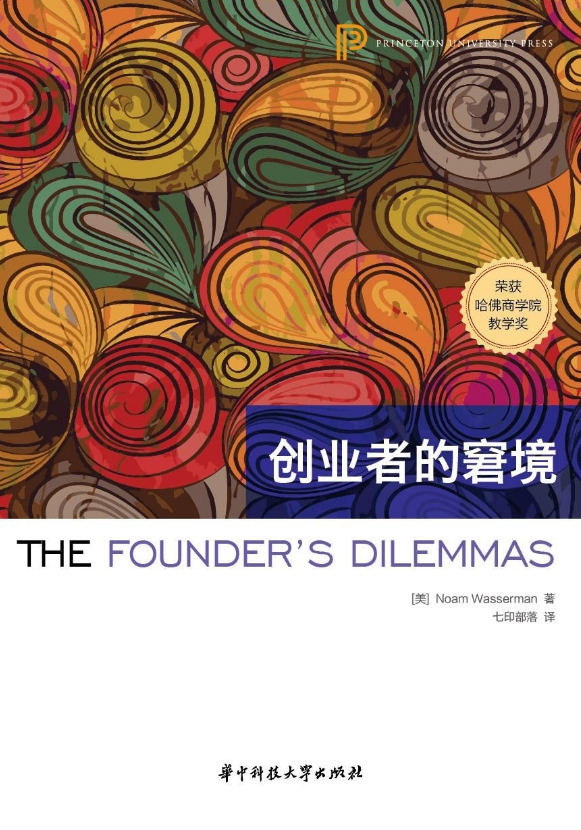
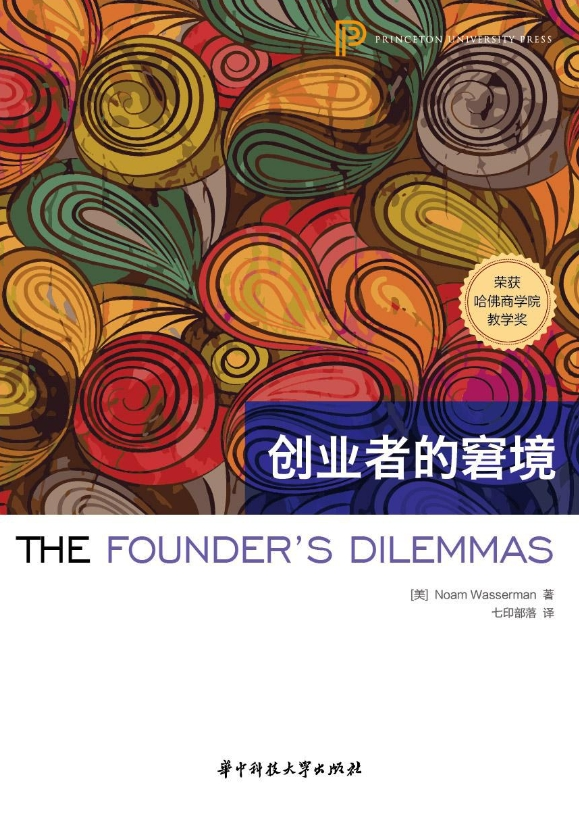
创业者的窘境

diff --git a/docs/startup/010--创业者的窘境.md b/docs/startup/010--创业者的窘境.md
@@ -5,10 +5,10 @@ title: 创业者的窘境
 ---
 
 import Cover from '/img/the-founders-dilemma/cover.png'
-import CoverCN from '/img/the-founders-dilemma/cover.png'
+import CoverCN from '/img/the-founders-dilemma/cover-cn.png'
 
 <img src={Cover} alt="cover" style={{width:240}} />
-<img src={CoverCN} alt="cover" style={{width:280}} />
+<img src={CoverCN} alt="cover" style={{width:240}} />
 
 原书名：**The Founder's Dilemma**
 
